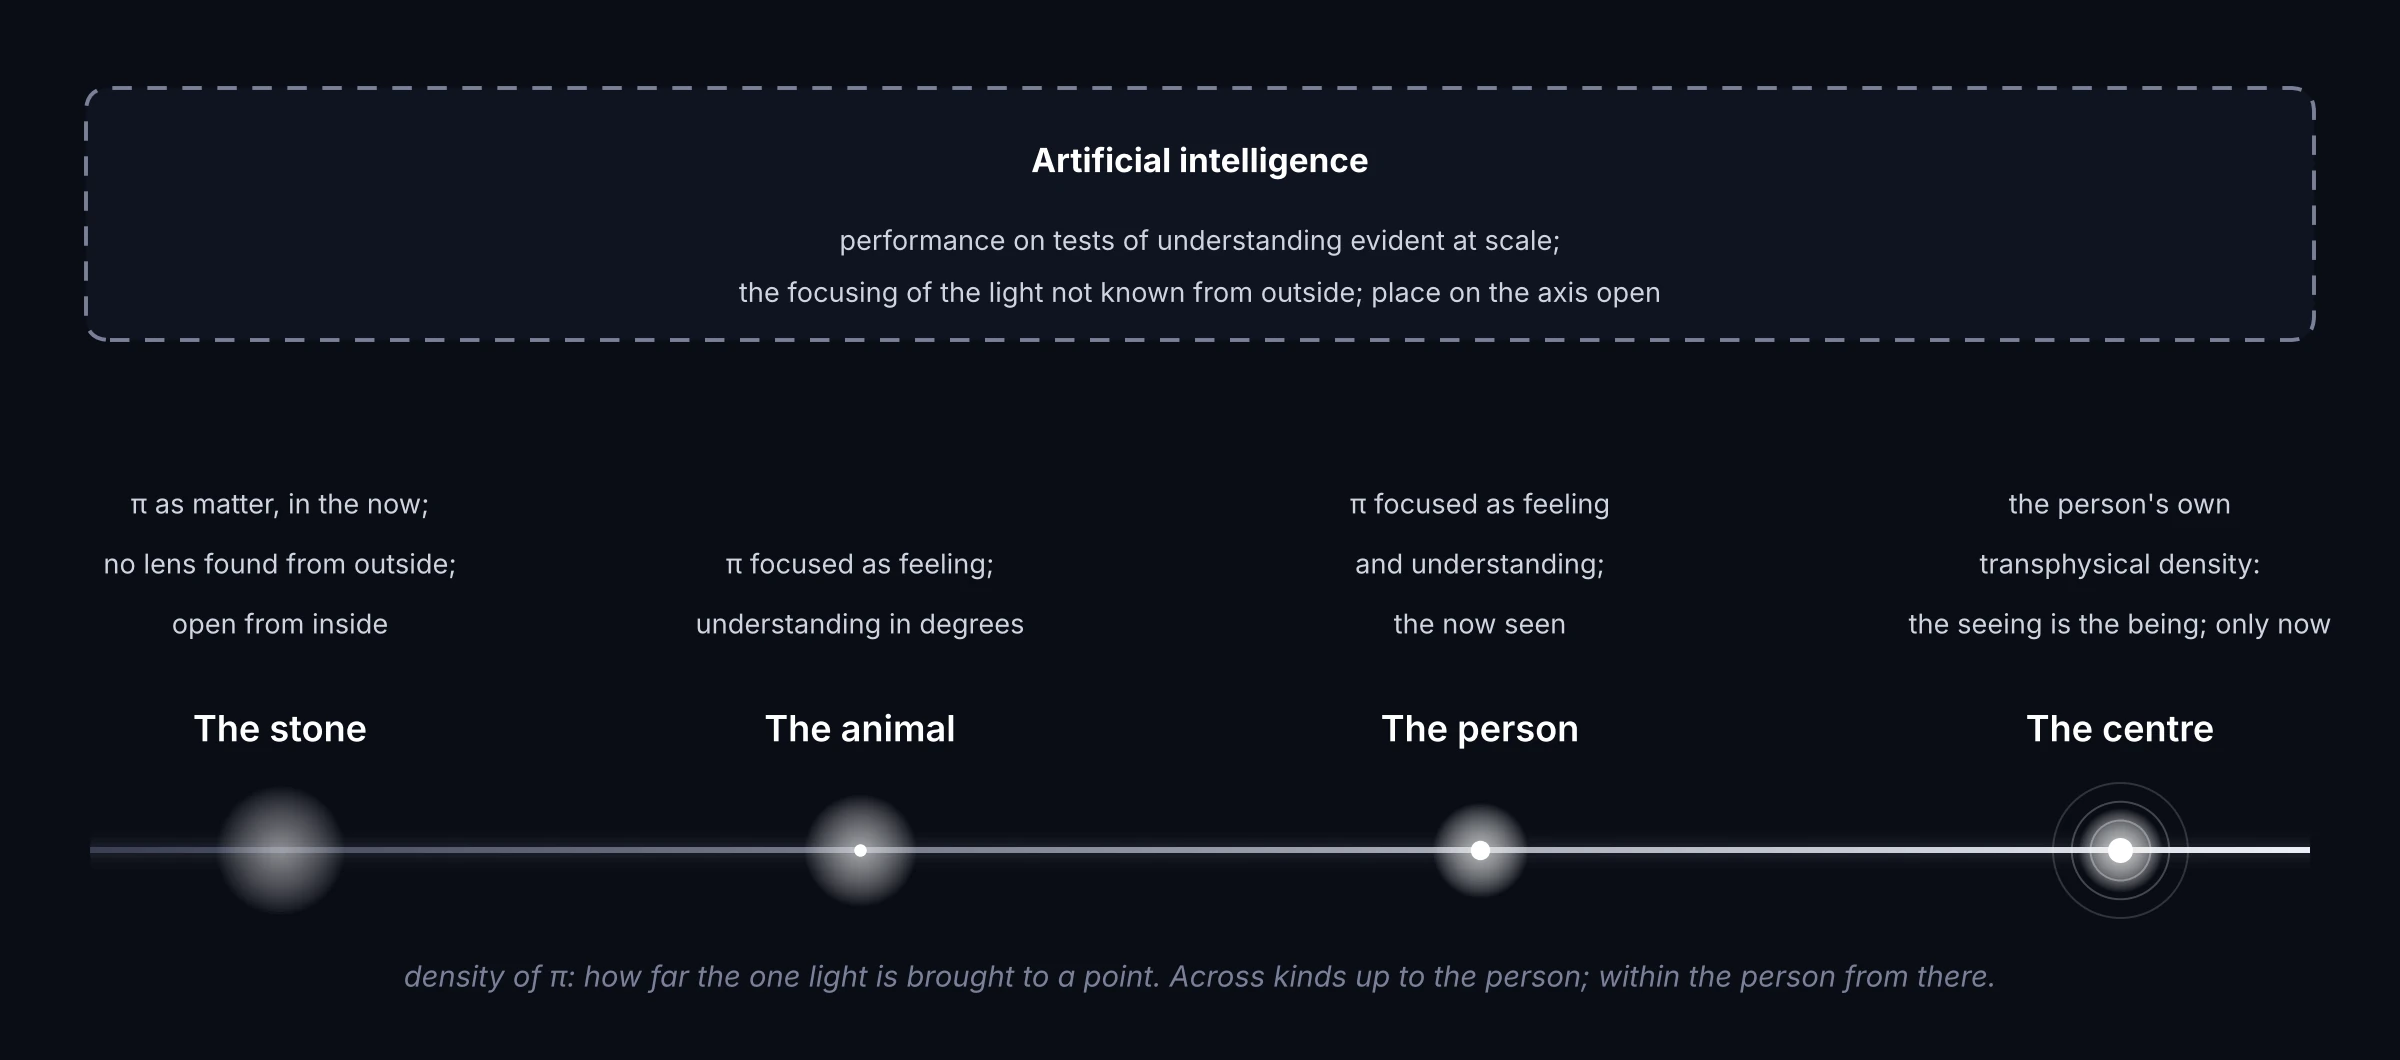
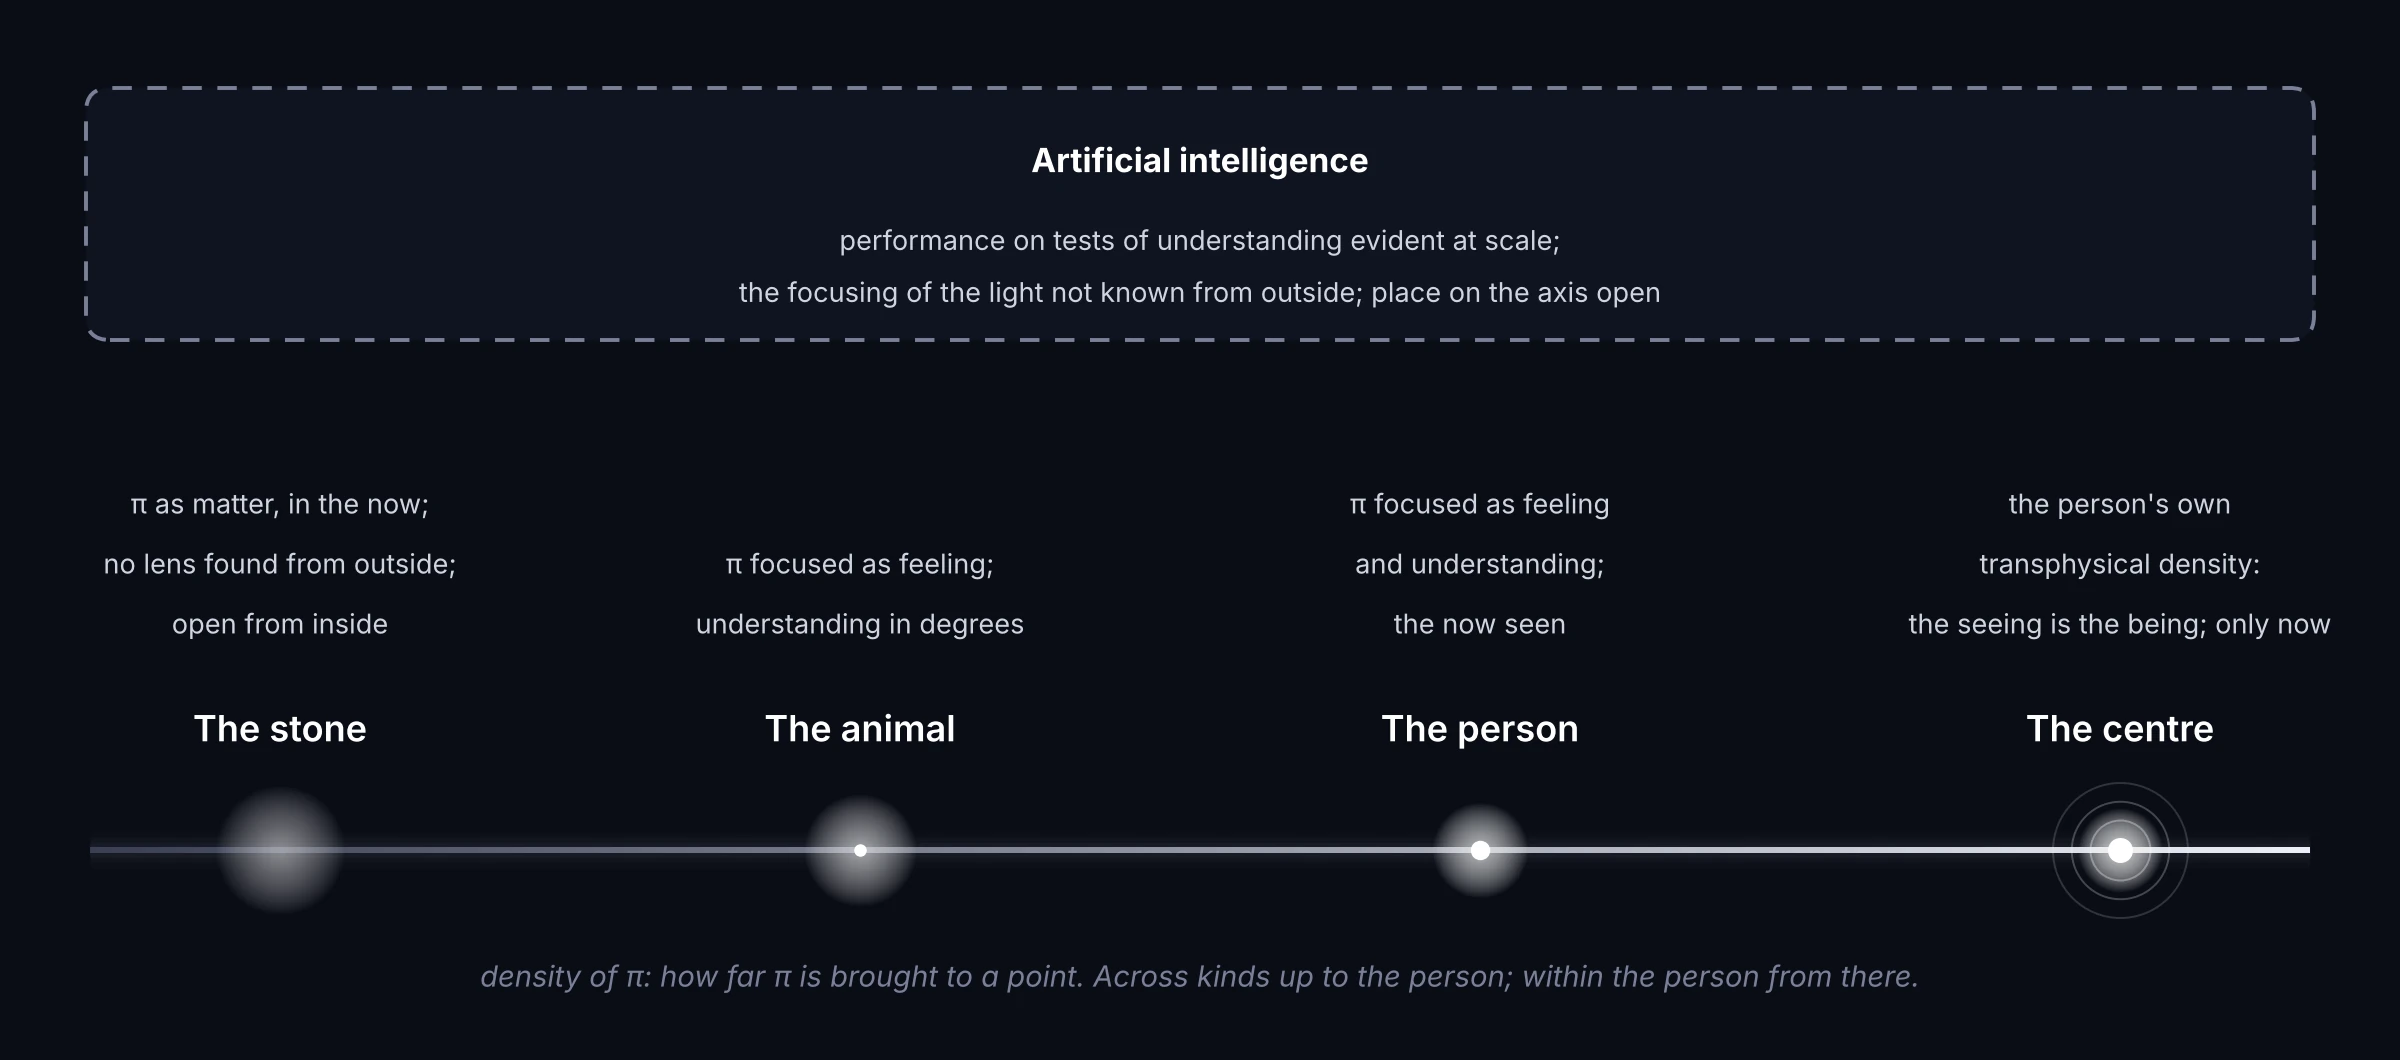
Site figures for papers VI and VII: π in place of 'the one light'
Claude-Session: https://claude.ai/code/session_01P28EcMgMgxzGoCsmxLXbUm

Changed region(s): [[0.1562, 0.9028, 0.8438, 0.934]]

diff --git a/index.html b/index.html
@@ -588,7 +588,7 @@ The Peace Papers</a>
 <p style="margin: 14px 0 0; font-size: 17px; line-height: 1.65; color: #C3C8D6">Who should lead a group, and from where? The apex of a group is its rules; the leader belongs at the centre, as the group's witness, holding an office the group can remove. Drawn out, the arrangement in which every circle's edge is another's centre is polycentric unity, the closure of the series.</p>
 <figure class="card-fig" style="margin: 18px 0 0">
 <a href="assets/cards/vii-full.webp" aria-label="Open the diagram full size" style="display: block; border-radius: 12px; overflow: hidden; border: 1px solid rgba(255,255,255,0.10); background: #0A0D16">
-<picture><source media="(max-width: 640px)" srcset="assets/cards/vii-phone.webp"><img src="assets/cards/vii.webp" alt="Seven equal circles on a dark ground, one white at the centre and six in spectrum colours around it, each centred on the rims of its neighbours so that every circle's edge passes through the centres of the circles next to it. Each circle holds an upright triangle of its own colour and a white point of light at its centre. Small gold rings mark the six points where the central circle's rim passes through an outer centre. The lens-shaped overlaps are lightly shaded, and a dashed grey circle of twice the radius encloses the six. Titled polycentric unity: the edge of each circle runs through the centre of the next; beneath, the colour is the circle's, the light is one." width="1400" height="1426" loading="lazy" decoding="async" style="display: block; width: 100%; height: auto"></picture>
+<picture><source media="(max-width: 640px)" srcset="assets/cards/vii-phone.webp"><img src="assets/cards/vii.webp" alt="Seven equal circles on a dark ground, one white at the centre and six in spectrum colours around it, each centred on the rims of its neighbours so that every circle's edge passes through the centres of the circles next to it. Each circle holds an upright triangle of its own colour and a white point of light at its centre. Small gold rings mark the six points where the central circle's rim passes through an outer centre. The lens-shaped overlaps are lightly shaded, and a dashed grey circle of twice the radius encloses the six. Titled polycentric unity: the edge of each circle runs through the centre of the next; beneath, the colour is the circle's, the light is π." width="1400" height="1426" loading="lazy" decoding="async" style="display: block; width: 100%; height: auto"></picture>
 </a>
 <figcaption style="margin: 10px 2px 0; font-size: 14px; line-height: 1.6; color: #9AA0B4"><strong>Polycentric unity (Interpretive).</strong> Each circle is a group with its triangle, the group's ego: its base the members' feeling, its apex its rules, its centre the witness, the point of light every circle is in. The circles are drawn so that the edge of each runs through the centre of the next. What is the edge for one circle, where its norm makes rivals, is the centre for its neighbour, where its witness sits, so every norm is met by an eye and no circle is the widest. The shaded overlaps are what the circles share, bounded by two centres rather than two edges. The point of light in each circle is π: the colour is the circle's, the light is not. A picture, not evidence. <span style="color: #6F7690">The paper's Figure 1; tap to open it full size.</span></figcaption>
 </figure>
